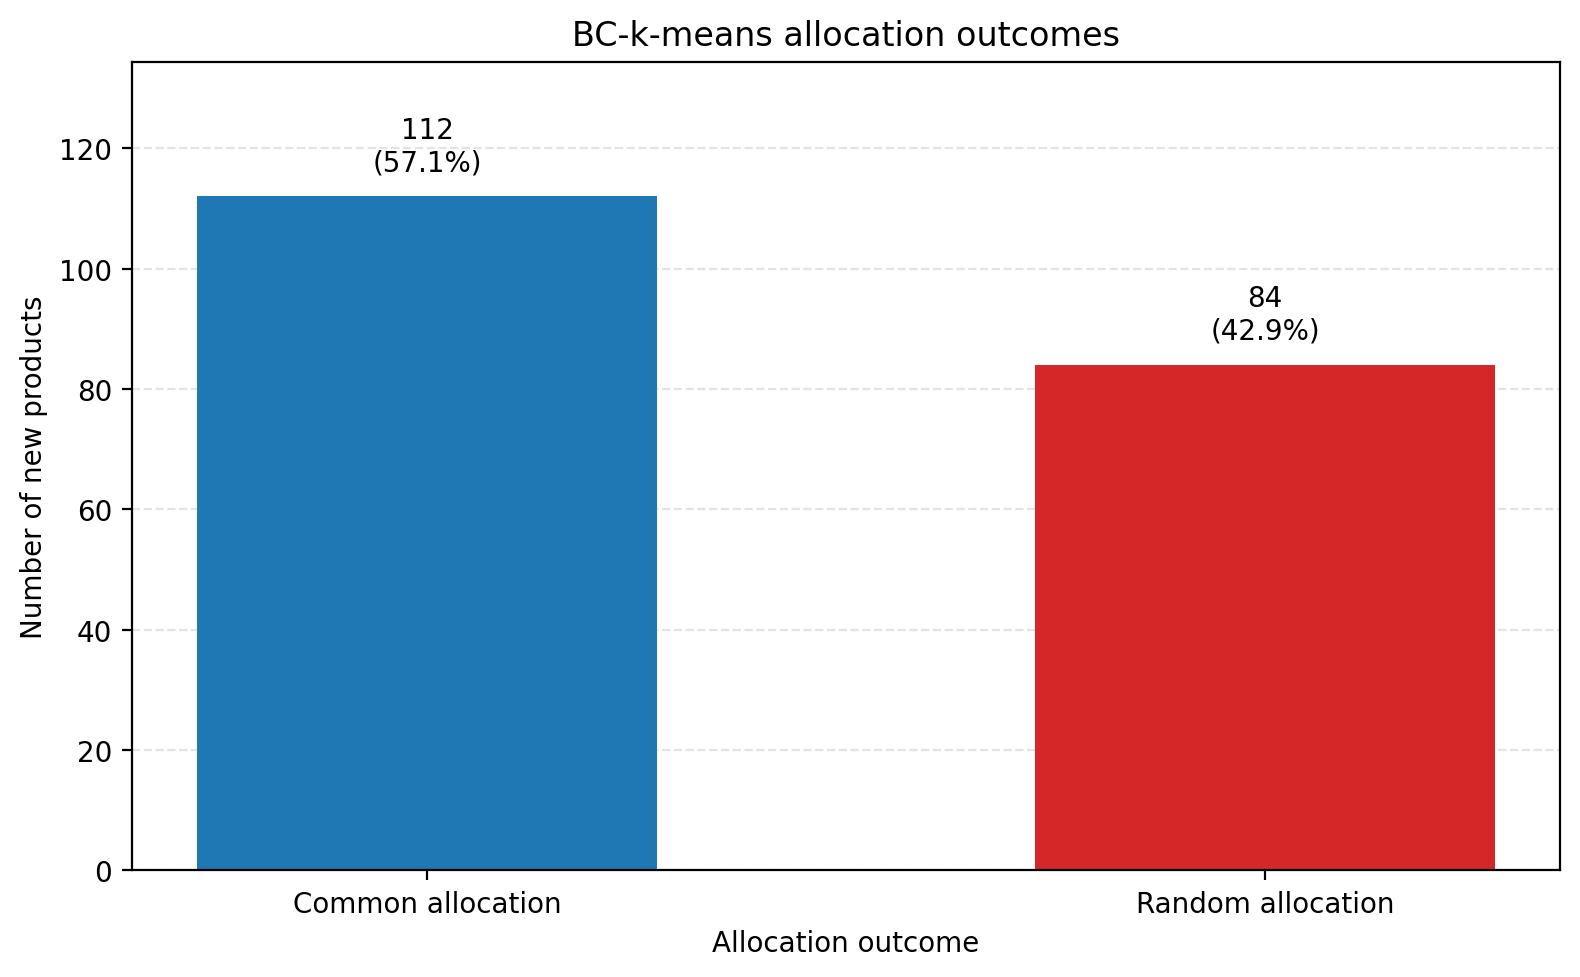
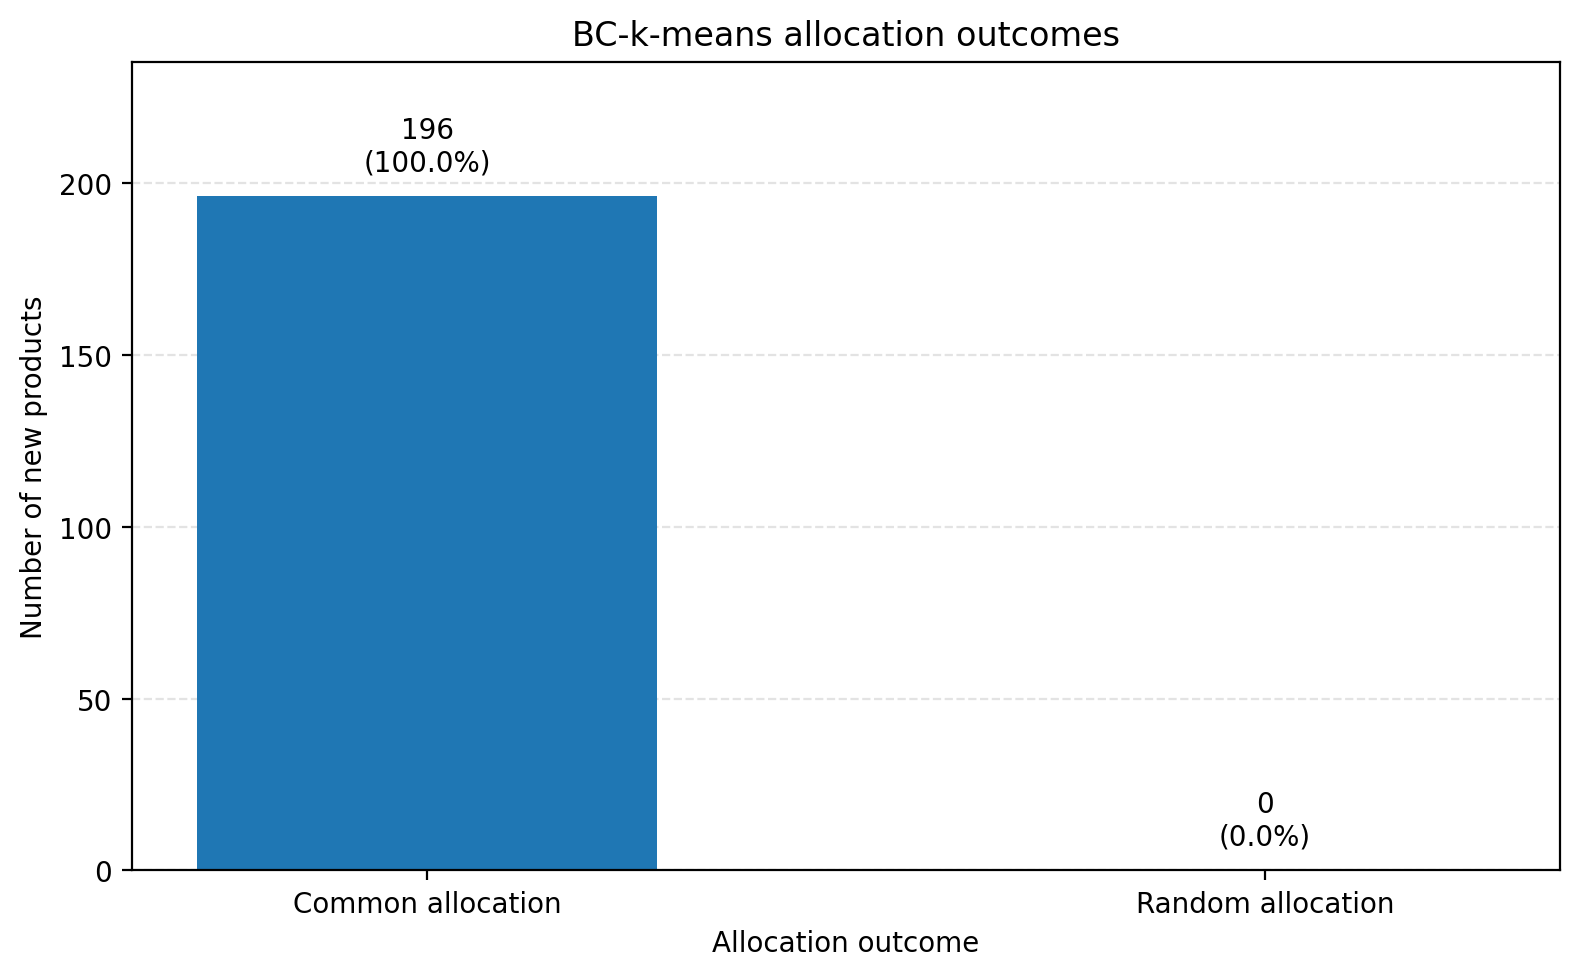
Add nearest-historical fallback for unresolved BC-k-means new SKUs
Keep BC-k-means as the primary new-SKU pairing method, but add a
deterministic fallback for any SKU that would otherwise remain
random_allocation.

- preserve the existing BC-k-means classification flow
- when a new SKU still resolves to random_allocation, pair it with the
  closest historical SKU from the same filtered candidate pool
- use Euclidean distance in the standardized BC-k-means feature space
- add a fallback-only imputation path so new SKUs that drop out during
  feature encoding can still be paired instead of remaining random
- leave downstream random-allocation handling in dataPreparation.py and
  objective.py unchanged

This reduces unresolved new-SKU assignments while keeping the output
schema of bc-k-means-results.csv unchanged.

diff --git a/Clustering/bc-k-means.py b/Clustering/bc-k-means.py
@@ -123,6 +123,84 @@ def build_feature_matrix(df: pd.DataFrame) -> tuple[pd.DataFrame, list[str]]:
     return encoded, feature_columns
 
 
+def build_feature_matrix_for_fallback(candidate_df: pd.DataFrame) -> tuple[pd.DataFrame, list[str]]:
+    encoded = candidate_df.copy()
+    raw_feature_columns = [
+        "Promo",
+        "capacity",
+        "price_per_piece",
+        "estimation_discount",
+        "shelf_life",
+    ]
+
+    for column in raw_feature_columns:
+        encoded[column] = pd.to_numeric(encoded[column], errors="coerce")
+
+    historical_mask = encoded["is_new_product"] == 0
+    for column in raw_feature_columns:
+        fill_value = encoded.loc[historical_mask, column].median()
+        if pd.isna(fill_value):
+            fill_value = encoded[column].median()
+        if pd.isna(fill_value):
+            return pd.DataFrame(), []
+        encoded[column] = encoded[column].fillna(fill_value)
+
+    encoded["shelf_life"] = np.ceil(encoded["shelf_life"])
+    encoded["log_capacity"] = np.log1p(encoded["capacity"].clip(lower=0))
+    encoded["log_price_per_piece"] = np.log1p(encoded["price_per_piece"].clip(lower=0))
+    encoded["log_estimation_discount"] = np.log1p(
+        encoded["estimation_discount"].clip(lower=0)
+    )
+    encoded["log_shelf_life"] = np.log1p(encoded["shelf_life"].clip(lower=0))
+
+    feature_input_columns = [
+        "Promo",
+        "log_capacity",
+        "log_price_per_piece",
+        "log_estimation_discount",
+        "log_shelf_life",
+    ]
+
+    scaler = StandardScaler()
+    feature_columns = [
+        "Promo_normalized",
+        "log_capacity_normalized",
+        "log_price_per_piece_normalized",
+        "log_estimation_discount_normalized",
+        "log_shelf_life_normalized",
+    ]
+    encoded[feature_columns] = scaler.fit_transform(encoded[feature_input_columns])
+
+    return encoded, feature_columns
+
+
+def find_nearest_historical_candidate(candidate_df: pd.DataFrame, new_code: str) -> str | None:
+    encoded_df, feature_columns = build_feature_matrix(candidate_df)
+    if encoded_df.empty or not feature_columns:
+        encoded_df, feature_columns = build_feature_matrix_for_fallback(candidate_df)
+
+    new_rows = encoded_df[encoded_df["item_code"] == new_code]
+    historical_rows = encoded_df[encoded_df["is_new_product"] == 0]
+    if new_rows.empty or historical_rows.empty:
+        encoded_df, feature_columns = build_feature_matrix_for_fallback(candidate_df)
+        if encoded_df.empty or not feature_columns:
+            return None
+        new_rows = encoded_df[encoded_df["item_code"] == new_code]
+        historical_rows = encoded_df[encoded_df["is_new_product"] == 0]
+
+    if encoded_df.empty or not feature_columns:
+        return None
+    if new_rows.empty or historical_rows.empty:
+        return None
+
+    distances = cdist(
+        new_rows[feature_columns].to_numpy(dtype=float),
+        historical_rows[feature_columns].to_numpy(dtype=float),
+        metric="euclidean",
+    ).flatten()
+    return historical_rows.iloc[int(np.argmin(distances))]["item_code"]
+
+
 def run_kmeans_pass(
     encoded_df: pd.DataFrame,
     feature_columns: list[str],
@@ -540,6 +618,7 @@ def classify_new_product(candidate_df: pd.DataFrame, new_code: str) -> dict:
             "corresponding_historical_product": None,
         }
 
+    fallback_hist_code = find_nearest_historical_candidate(candidate_df, new_code)
     nearest_hist_code = None
     current_df = candidate_df.copy()
 
@@ -548,8 +627,10 @@ def classify_new_product(candidate_df: pd.DataFrame, new_code: str) -> dict:
         if historical_candidates.empty:
             return {
                 "new_product_code": new_code,
-                "allocation_type": "random_allocation",
-                "corresponding_historical_product": None,
+                "allocation_type": (
+                    "common_allocation" if fallback_hist_code is not None else "random_allocation"
+                ),
+                "corresponding_historical_product": fallback_hist_code,
             }
 
         if len(current_df) <= MAX_CLUSTER_SIZE:
@@ -615,6 +696,10 @@ def classify_new_product(candidate_df: pd.DataFrame, new_code: str) -> dict:
     else:
         allocation_type = "random_allocation"
         corresponding_historical_product = None
+
+    if allocation_type == "random_allocation" and fallback_hist_code is not None:
+        allocation_type = "common_allocation"
+        corresponding_historical_product = fallback_hist_code
 
     return {
         "new_product_code": new_code,
